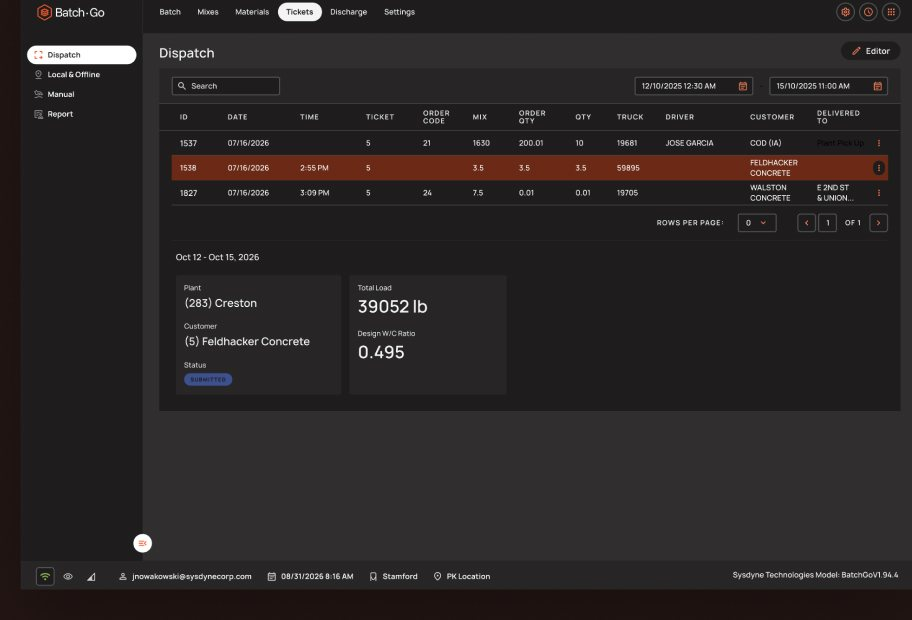
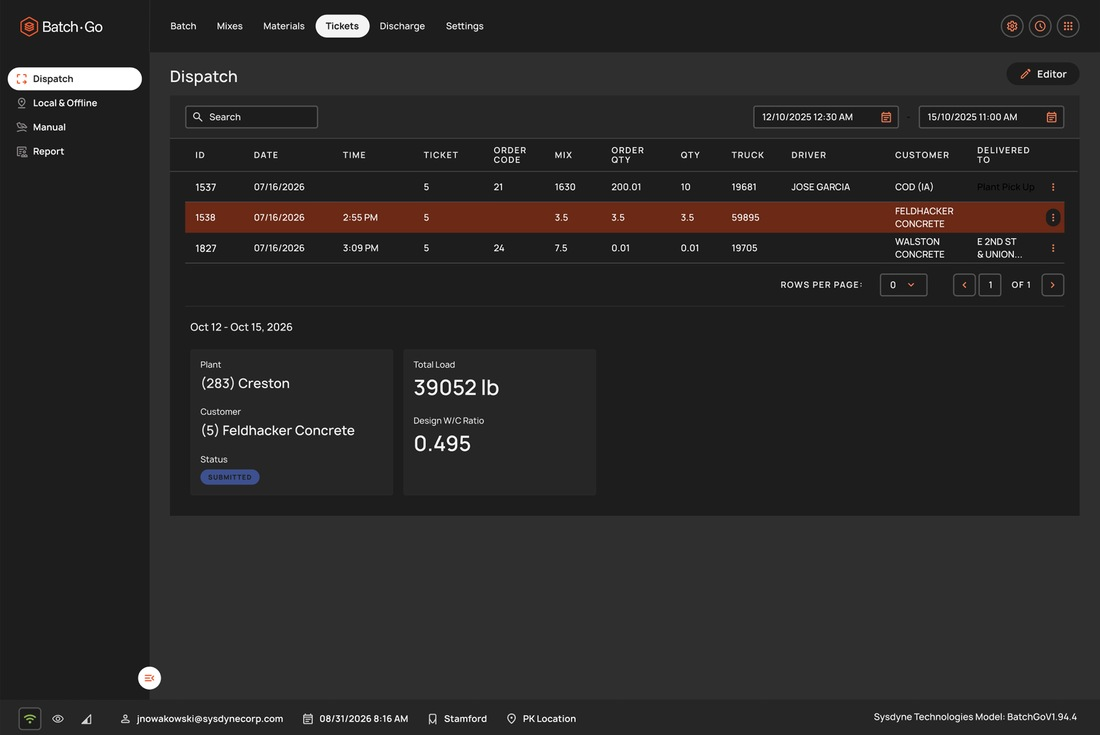
Sysdyne Batch-Go: captions, layout, and hi-res screens
Add 04 label, orange captions above shots, full-width dispatch without
panel underlay, product principle grid, export on section fill.

diff --git a/content/portfolio.js b/content/portfolio.js
@@ -1,1 +1,1 @@
-window.PORTFOLIO = {"projects":[{"id":"sysdyne","category":"desktop","title":"Sysdyne\nTechnologies","label":"SaaS Dashboard","year":"2022/26","color":"#e8612d","cover":"baked","image":"images/covers/sysdyne.png","caseStudy":"case-studies/sysdyne.html","mediaVersion":"20261121b"},{"id":"hello","category":"desktop","title":"Hello","label":"HCP Dashboard","year":"2019","color":"#b62b88","cover":"baked","image":"images/covers/hello.png","mediaVersion":"20251113c"},{"id":"utilimarc","category":"desktop","title":"Utilimarc\nTelematics","label":"SaaS Dashboard","year":"2018","color":"#566167","cover":"baked","image":"images/covers/utilimarc.png","mediaVersion":"20251113c"},{"id":"tallinder","category":"desktop","title":"Tallinder","label":"eCommerce","year":"2015","color":"#222222","cover":"baked","image":"images/covers/tallinder.png","mediaVersion":"20251113c"},{"id":"alior","category":"desktop","title":"Alior\nSync\nBanking","label":"Landing Page","year":"2014","color":"#fe9400","cover":"baked","image":"images/covers/alior.png","mediaVersion":"20251113c"},{"id":"irshad","category":"desktop","title":"Irshad\nPetroleum","label":"Product Page","year":"2014","color":"#1f4e88","cover":"baked","image":"images/covers/irshad.png","mediaVersion":"20251113c"},{"id":"transimeksa","category":"desktop","title":"Transimeksa\nLogistic\nSolutions","label":"Product Page","year":"2014","color":"#0f5d4f","cover":"baked","image":"images/covers/transimeksa.png","mediaVersion":"20251113c"},{"id":"ponto","category":"mobile","title":"Ponto Trial\nCampanion","label":"Mobile App","year":"2020","color":"#6a6a68","cover":"baked","image":"images/covers/ponto.png","mediaVersion":"20251113c"},{"id":"oticon","category":"mobile","title":"Oticon\nRemoteCare","label":"Mobile App","year":"2019","color":"#c2a88d","cover":"baked","image":"images/covers/oticon.png","mediaVersion":"20251113c"},{"id":"bahs","category":"mobile","title":"BAHS App","label":"Mobile App","year":"2018","color":"#f07228","cover":"baked","image":"images/covers/bahs.png","mediaVersion":"20251113c"},{"id":"hearing-fitness","category":"mobile","title":"Hearing\nFitness","label":"Tablet App","year":"2016","color":"#1e2428","cover":"baked","image":"images/covers/hearing-fitness.png","mediaVersion":"20251113c"},{"id":"sysdyne-illustrations","category":"motion","title":"Sysdyne\nIllustrations","label":"Motion","year":"2026","color":"#e5642c","cover":"baked","image":"images/covers/sysdyne-illustrations.png","caseStudy":"illustrations/stage.html","arrow":true,"mediaVersion":"20261116f"},{"id":"oticon-remotecare-motion","category":"motion","title":"Oticon\nRemoteCare","label":"Motion","year":"2020","color":"#b62b88","cover":"baked","image":"images/covers/oticon-remotecare-motion.png","caseStudy":"remotecare/stage.html","arrow":true,"mediaVersion":"20261119a"}]};
+window.PORTFOLIO = {"projects":[{"id":"sysdyne","category":"desktop","title":"Sysdyne\nTechnologies","label":"SaaS Dashboard","year":"2022/26","color":"#e8612d","cover":"baked","image":"images/covers/sysdyne.png","caseStudy":"case-studies/sysdyne.html","mediaVersion":"20261121c"},{"id":"hello","category":"desktop","title":"Hello","label":"HCP Dashboard","year":"2019","color":"#b62b88","cover":"baked","image":"images/covers/hello.png","mediaVersion":"20251113c"},{"id":"utilimarc","category":"desktop","title":"Utilimarc\nTelematics","label":"SaaS Dashboard","year":"2018","color":"#566167","cover":"baked","image":"images/covers/utilimarc.png","mediaVersion":"20251113c"},{"id":"tallinder","category":"desktop","title":"Tallinder","label":"eCommerce","year":"2015","color":"#222222","cover":"baked","image":"images/covers/tallinder.png","mediaVersion":"20251113c"},{"id":"alior","category":"desktop","title":"Alior\nSync\nBanking","label":"Landing Page","year":"2014","color":"#fe9400","cover":"baked","image":"images/covers/alior.png","mediaVersion":"20251113c"},{"id":"irshad","category":"desktop","title":"Irshad\nPetroleum","label":"Product Page","year":"2014","color":"#1f4e88","cover":"baked","image":"images/covers/irshad.png","mediaVersion":"20251113c"},{"id":"transimeksa","category":"desktop","title":"Transimeksa\nLogistic\nSolutions","label":"Product Page","year":"2014","color":"#0f5d4f","cover":"baked","image":"images/covers/transimeksa.png","mediaVersion":"20251113c"},{"id":"ponto","category":"mobile","title":"Ponto Trial\nCampanion","label":"Mobile App","year":"2020","color":"#6a6a68","cover":"baked","image":"images/covers/ponto.png","mediaVersion":"20251113c"},{"id":"oticon","category":"mobile","title":"Oticon\nRemoteCare","label":"Mobile App","year":"2019","color":"#c2a88d","cover":"baked","image":"images/covers/oticon.png","mediaVersion":"20251113c"},{"id":"bahs","category":"mobile","title":"BAHS App","label":"Mobile App","year":"2018","color":"#f07228","cover":"baked","image":"images/covers/bahs.png","mediaVersion":"20251113c"},{"id":"hearing-fitness","category":"mobile","title":"Hearing\nFitness","label":"Tablet App","year":"2016","color":"#1e2428","cover":"baked","image":"images/covers/hearing-fitness.png","mediaVersion":"20251113c"},{"id":"sysdyne-illustrations","category":"motion","title":"Sysdyne\nIllustrations","label":"Motion","year":"2026","color":"#e5642c","cover":"baked","image":"images/covers/sysdyne-illustrations.png","caseStudy":"illustrations/stage.html","arrow":true,"mediaVersion":"20261116f"},{"id":"oticon-remotecare-motion","category":"motion","title":"Oticon\nRemoteCare","label":"Motion","year":"2020","color":"#b62b88","cover":"baked","image":"images/covers/oticon-remotecare-motion.png","caseStudy":"remotecare/stage.html","arrow":true,"mediaVersion":"20261119a"}]};

diff --git a/css/study.css b/css/study.css
@@ -1089,44 +1089,90 @@
   column-gap: 40px;
   align-items: start;
 }
+.batch-lead { align-self: start; }
+.batch-product-idx {
+  margin: 0 0 20px;
+  color: #a39e97;
+  font-size: 12px;
+  font-weight: 700;
+  letter-spacing: 0.08em;
+  text-transform: uppercase;
+}
 .batch-top h2 {
+  margin: 0;
   font-size: clamp(44px, 4.8vw, 68px);
   line-height: 0.9;
   letter-spacing: -0.045em;
 }
-.batch-top figure { margin-top: 36px; }
 .batch-top .prose {
   max-width: 354px;
   margin-top: 28px;
   font-size: 17px;
-  line-height: 1.45;
+  font-weight: 500;
+  line-height: 1.5;
 }
 .study-batch .ticks li { color: #fff; }
-.batch-dispatch {
-  width: min(860px, 78%);
-  margin: 56px auto 0;
-  background: #1e1c1d;
+.batch-block {
+  margin: 0;
+  display: flex;
+  flex-direction: column;
+  align-items: flex-start;
+  text-align: left;
 }
-.batch-dispatch figcaption { padding: 22px 28px 4px; }
-.batch-dispatch figcaption strong {
+.batch-cap { width: 100%; margin: 0 0 18px; text-align: left; }
+.batch-idx {
   display: block;
-  margin-bottom: 6px;
+  margin-bottom: 10px;
   color: var(--orange);
   font-size: 12px;
   font-weight: 700;
-  letter-spacing: 0.12em;
+  letter-spacing: 0.08em;
   text-transform: uppercase;
 }
-.batch-dispatch figcaption p {
+.batch-cap p {
   margin: 0;
-  color: #b7b0aa;
+  max-width: 42ch;
+  color: #c8c4be;
   font-size: 15px;
+  font-weight: 500;
   line-height: 1.4;
-  opacity: 1;
 }
-.study-batch .principle { border-top-color: rgba(255, 255, 255, 0.16); }
-.study-batch .principle .eyebrow { color: var(--orange); }
-.study-batch .principle p:last-child { color: #fff; }
+.study-batch .batch-block .study-shot {
+  display: block;
+  width: 100%;
+  height: auto;
+  vertical-align: top;
+  background: transparent;
+  border: 0;
+  box-shadow: none;
+}
+.batch-dispatch {
+  width: 100%;
+  margin: 56px 0 0;
+}
+.study-batch .principle {
+  display: grid;
+  grid-template-columns: minmax(140px, 22%) minmax(0, 1fr);
+  gap: 12px 28px;
+  align-items: start;
+  border-top-color: rgba(255, 255, 255, 0.16);
+}
+.study-batch .principle-label {
+  margin: 0;
+  color: var(--orange);
+  font-size: 12px;
+  font-weight: 700;
+  letter-spacing: 0.14em;
+  text-transform: uppercase;
+}
+.study-batch .principle-statement {
+  margin: 0;
+  color: #faf9f6;
+  font-size: clamp(28px, 3.2vw, 48px);
+  font-weight: 500;
+  letter-spacing: -0.035em;
+  line-height: 1.08;
+}
 .drv-top {
   display: grid;
   grid-template-columns: minmax(0, 0.86fr) minmax(0, 1.14fr);
@@ -1505,9 +1551,9 @@
   .study-mob .principle { grid-template-columns: 1fr; }
   .mob-cap p { max-width: none; }
   .batch-top { grid-template-columns: 1fr; }
-  .batch-top figure { margin-top: 28px; }
   .batch-top h2 { font-size: clamp(40px, 12vw, 60px); }
-  .batch-dispatch { width: 100%; }
+  .study-batch .principle { grid-template-columns: 1fr; }
+  .batch-cap p { max-width: none; }
   .study-collab .collab-top,
   .study-outcomes .out-top { grid-template-columns: 1fr; align-items: start; }
   .study-collab .prose { padding-top: 8px; }

diff --git a/content/case-studies/sysdyne.html b/content/case-studies/sysdyne.html
@@ -406,8 +406,9 @@
   <section class="study-section study-batch">
     <div class="study-wrap">
       <div class="batch-top">
-        <div>
-          <h2>Batch-Go<br />A shared<br />language<br />for a<br />specialized<br />tool.</h2>
+        <div class="batch-lead">
+          <p class="batch-product-idx">04 / Batch-Go</p>
+          <h2>A shared<br />language<br />for a<br />specialized<br />tool.</h2>
           <p class="prose">Batch-Go brought the design system into the production plant. The interface had to represent a physical process, surface critical deviations, and give operators direct access to controls without losing the shared product language.</p>
           <ul class="ticks">
             <li>Live production state at a glance</li>
@@ -415,19 +416,24 @@
             <li>Operational data connected to ticket history</li>
           </ul>
         </div>
-        <figure>
-          <img class="study-shot" src="content/images/case-studies/sysdyne/batch-live.jpg" alt="Live production. Equipment states, batch progress, material variance, and process steps in one view." />
+        <figure class="batch-block">
+          <figcaption class="batch-cap">
+            <span class="batch-idx">Live production</span>
+            <p>Equipment states, batch progress, material variance, and process steps in one view.</p>
+          </figcaption>
+          <img class="study-shot" src="content/images/case-studies/sysdyne/batch-live.jpg" alt="Live batching screen with plant diagram and material tracking." />
         </figure>
       </div>
-      <figure class="batch-dispatch">
-        <figcaption>
-          <strong>Ticket dispatch</strong>
-          <p>Searchable production records with immediate access to load and mix details</p>
+      <figure class="batch-block batch-dispatch">
+        <figcaption class="batch-cap">
+          <span class="batch-idx">Ticket dispatch</span>
+          <p>Searchable production records with immediate access to load and mix details.</p>
         </figcaption>
         <img class="study-shot" src="content/images/case-studies/sysdyne/batch-dispatch.jpg" alt="Batch-Go ticket table with a selected load, total weight, and mix ratio." />
       </figure>
       <div class="principle">
-        <p>Make the physical process visible.<br />Surface deviations before they<br />become problems.</p>
+        <p class="principle-label">Product principle</p>
+        <p class="principle-statement">Make the physical process visible.<br />Surface deviations before they<br />become problems.</p>
       </div>
     </div>
   </section>

diff --git a/portfolio.html b/portfolio.html
@@ -10,7 +10,7 @@
     <link rel="preconnect" href="https://fonts.gstatic.com" crossorigin />
     <link href="https://fonts.googleapis.com/css2?family=Manrope:wght@200;500;600;700;800&display=swap" rel="stylesheet" />
     <link rel="stylesheet" href="css/site.css?v=20261117h" />
-    <link rel="stylesheet" href="css/study.css?v=20261121b" />
+    <link rel="stylesheet" href="css/study.css?v=20261121c" />
     <link rel="stylesheet" href="css/illustrations.css?v=20261117d" />
   </head>
   <body>
